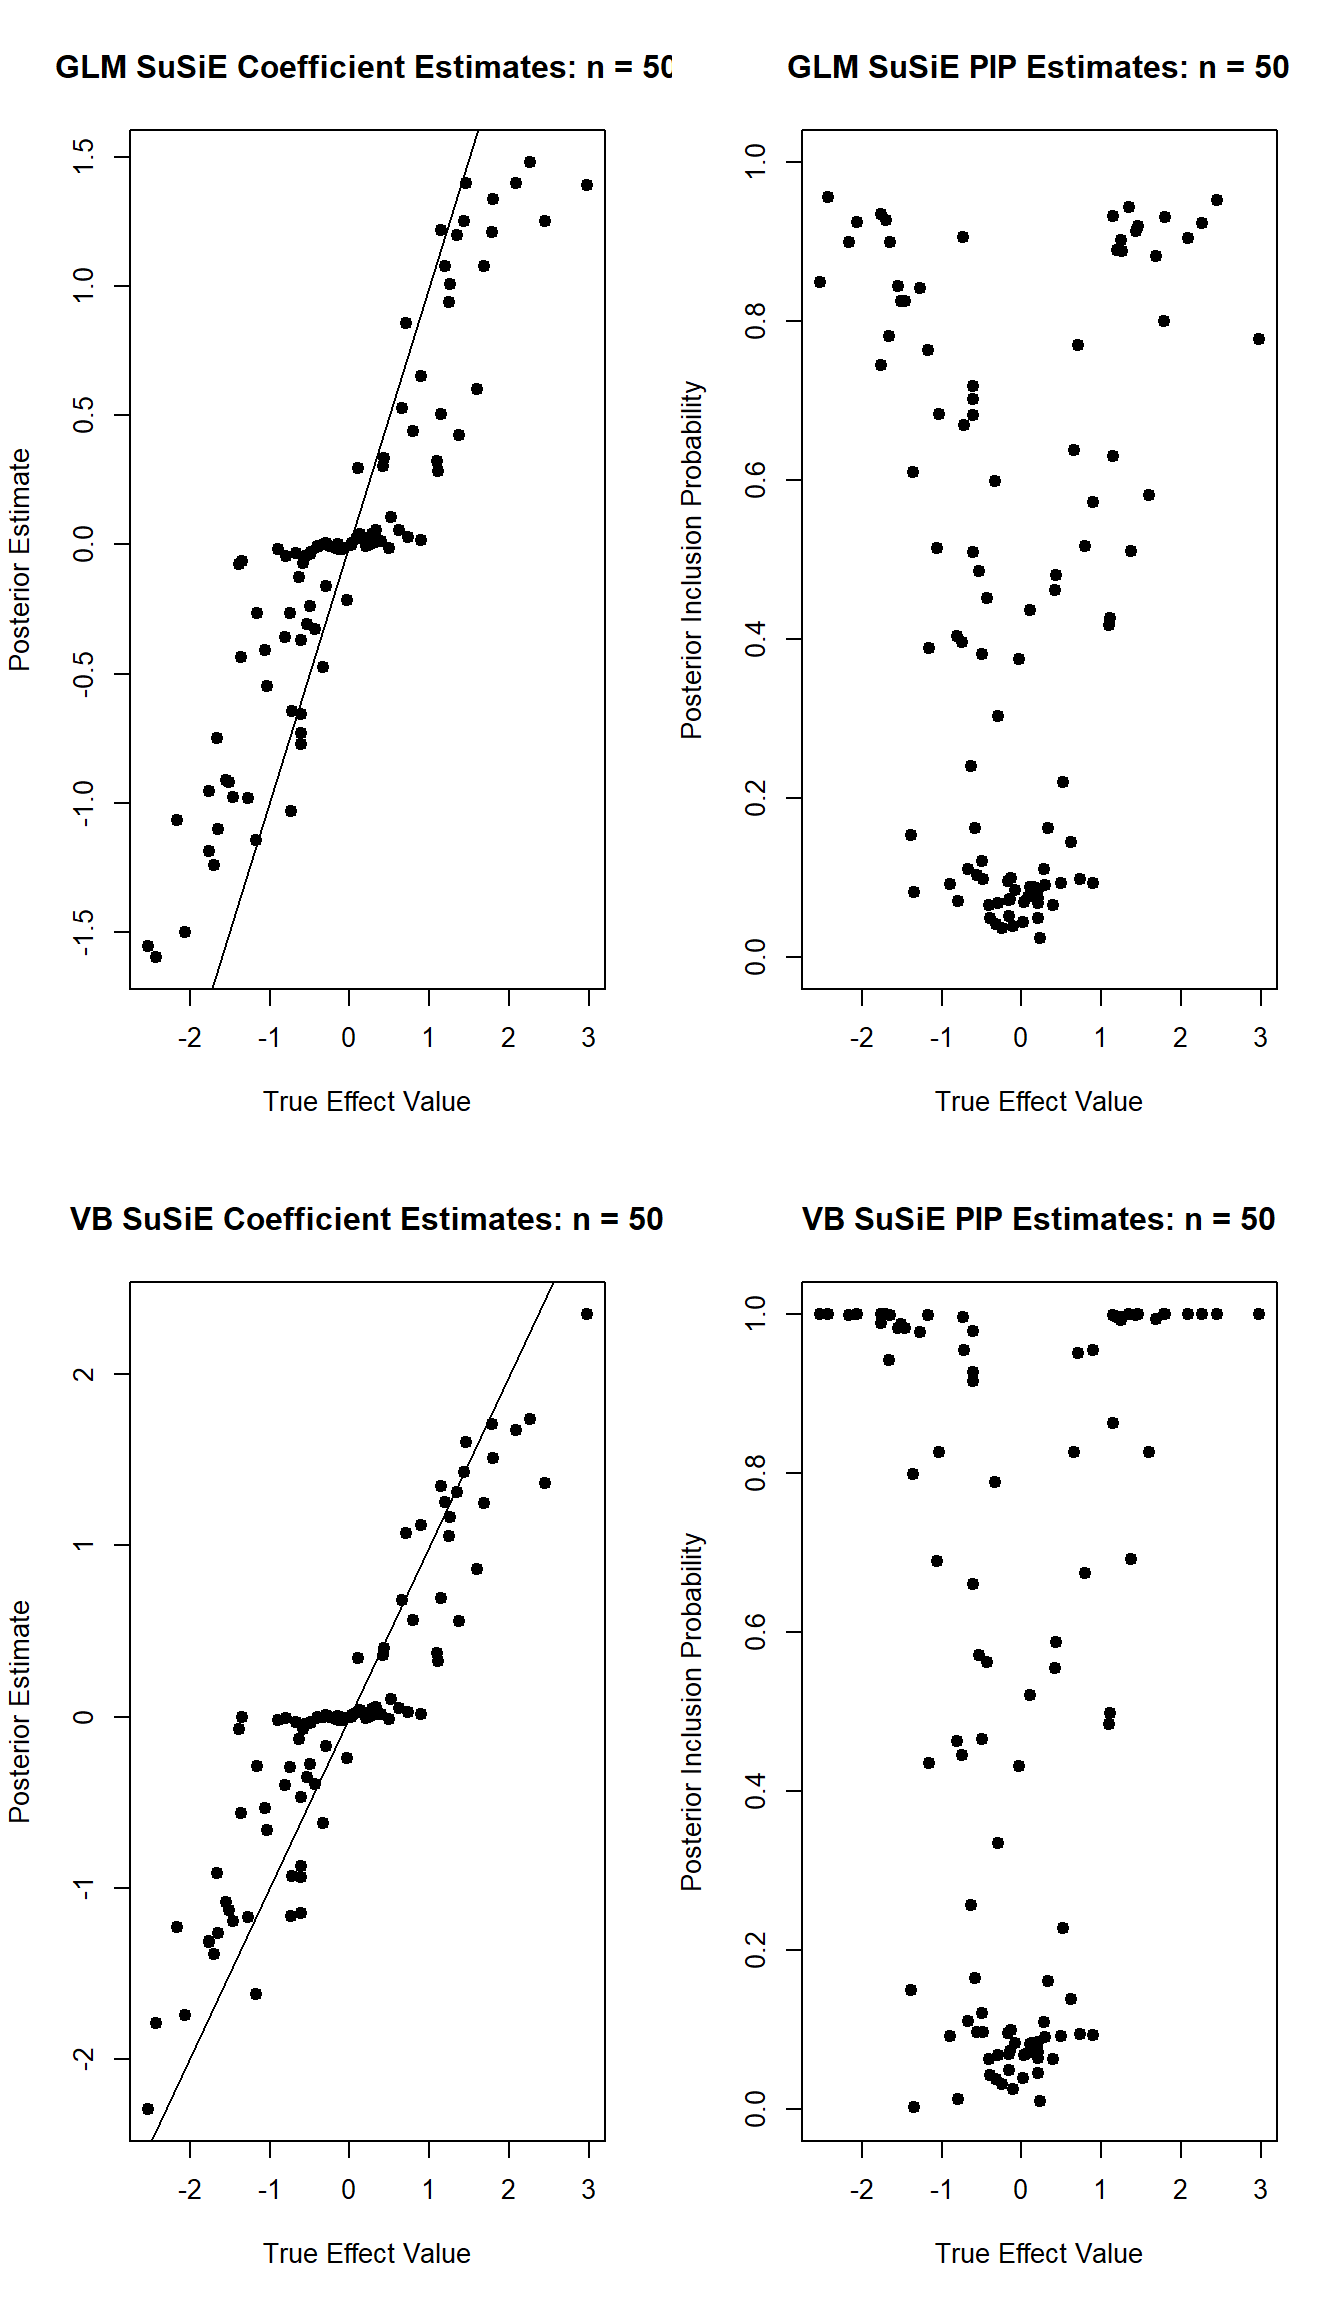
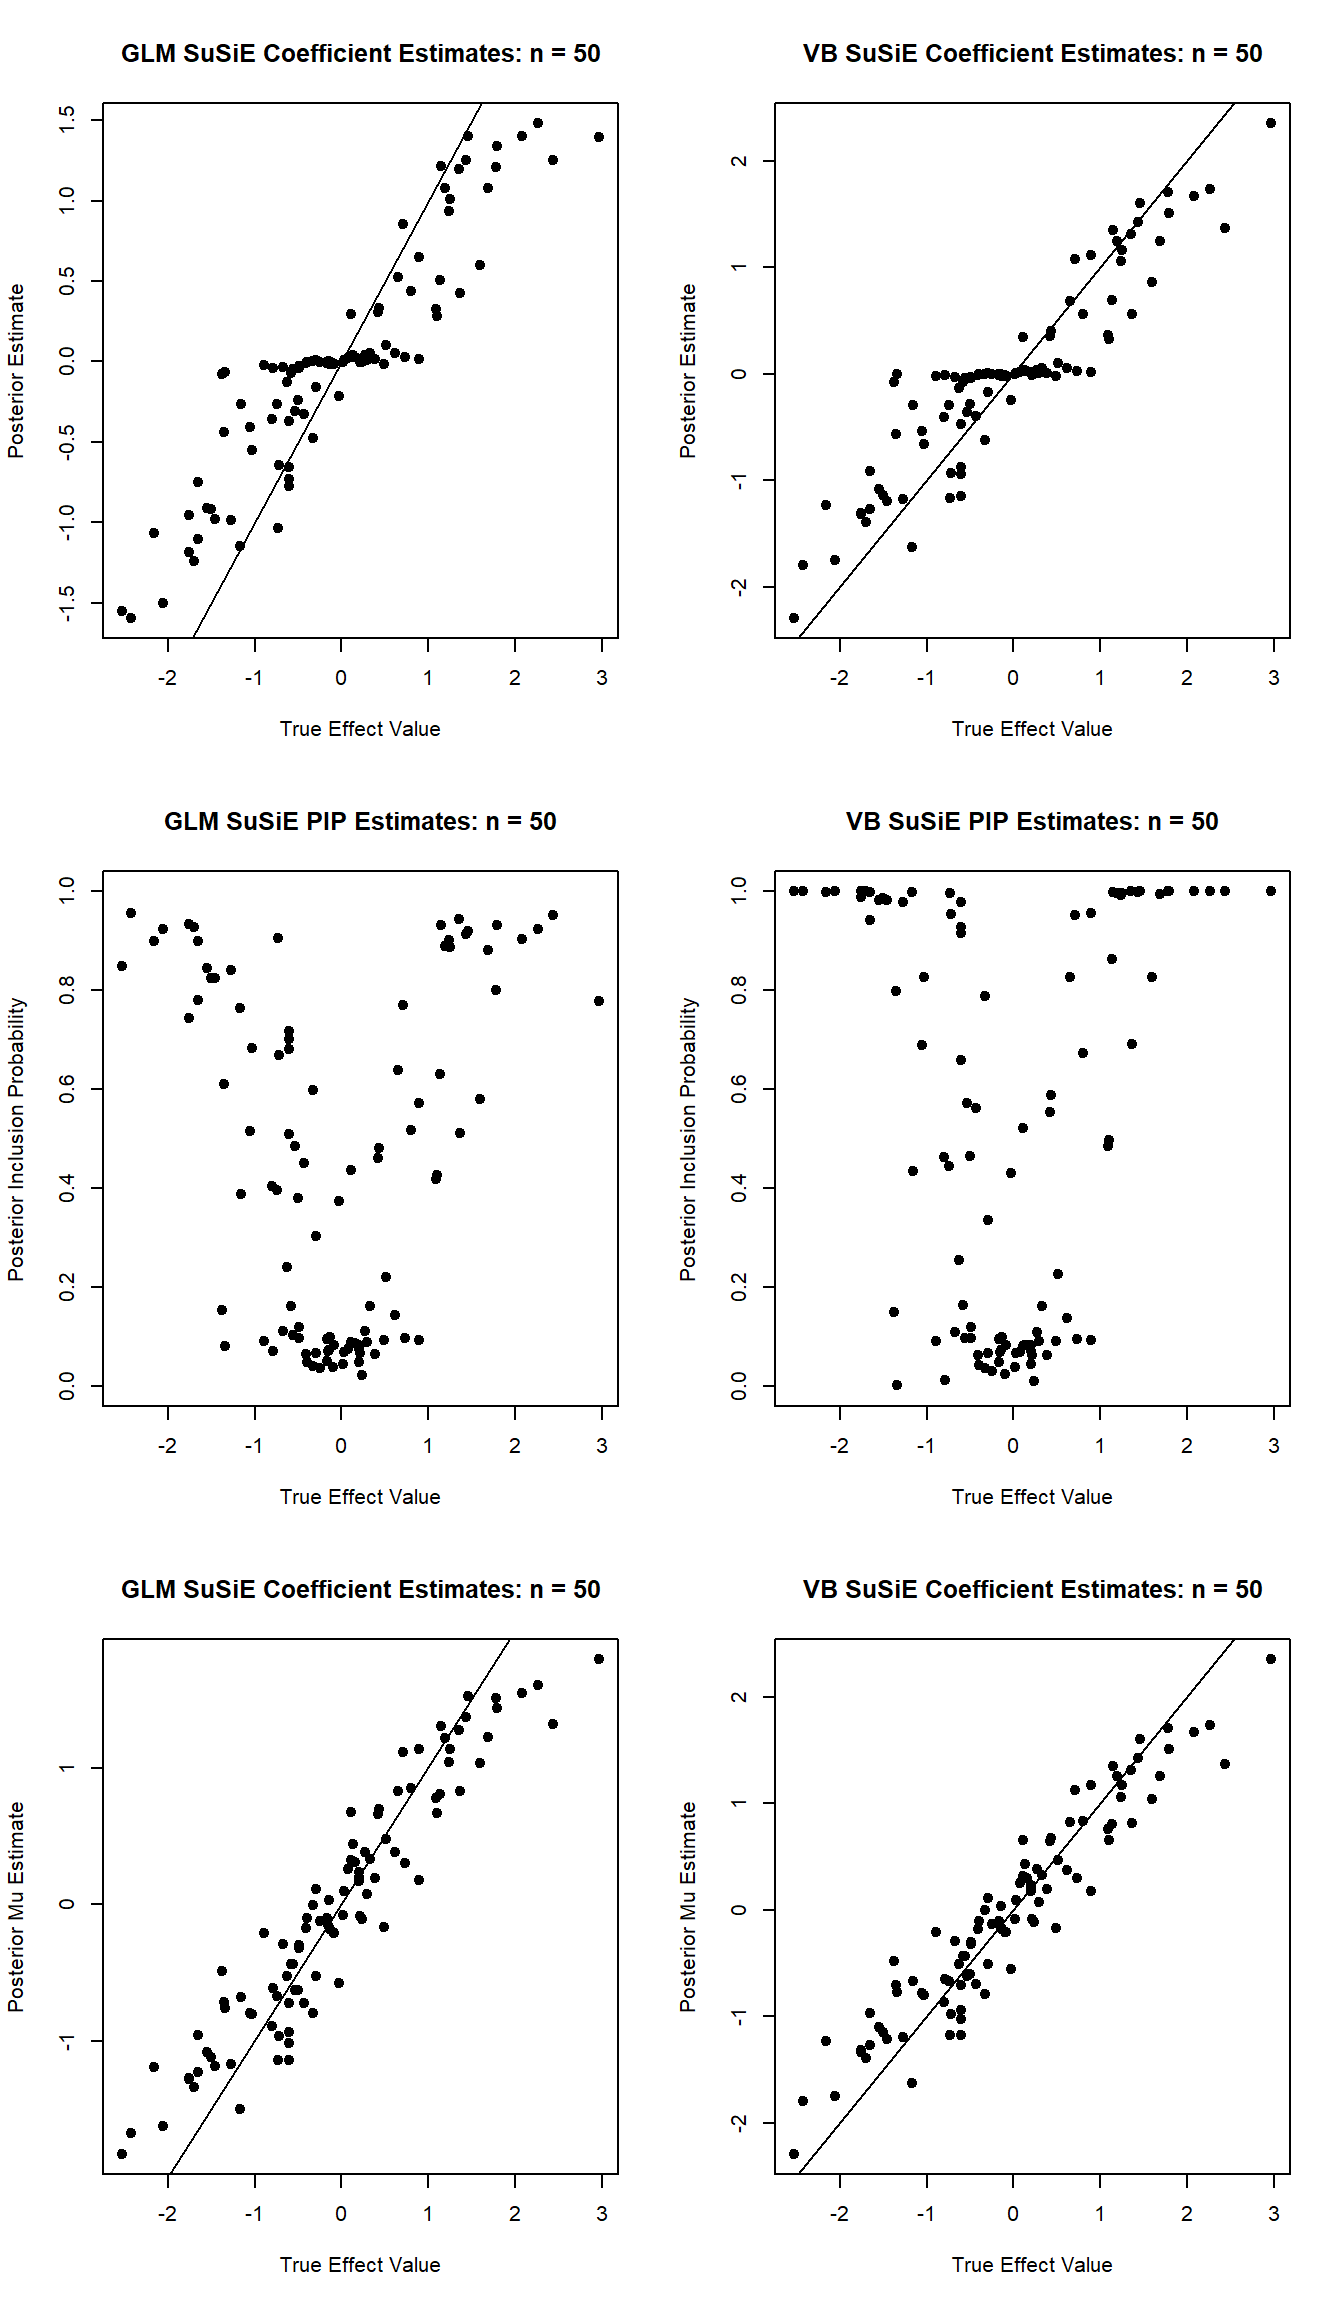
Build site.

diff --git a/docs/VB_susie_logistic_demonstration.html b/docs/VB_susie_logistic_demonstration.html
@@ -12,7 +12,7 @@
 <meta name="author" content="Andrew Goldstein" />
 
 
-<title>susieR Logistic Regression GLM</title>
+<title>susieR Logistic Regression VB</title>
 
 <script src="site_libs/jquery-1.11.3/jquery.min.js"></script>
 <meta name="viewport" content="width=device-width, initial-scale=1" />
@@ -338,9 +338,9 @@ div.section {
 
 
 
-<h1 class="title toc-ignore">susieR Logistic Regression GLM</h1>
+<h1 class="title toc-ignore">susieR Logistic Regression VB</h1>
 <h4 class="author"><em>Andrew Goldstein</em></h4>
-<h4 class="date"><em>May 6, 2019</em></h4>
+<h4 class="date"><em>May 8, 2019</em></h4>
 
 </div>
 
@@ -369,7 +369,7 @@ div.section {
 </details>
 </li>
 <li>
-<p><details> <summary> <strong style="color:blue;">✔</strong> <strong>Repository version:</strong> <a href="https://github.com/andrewg3311/susieR_logistic_wflow/tree/5e270b116374e947dcba4206cf3c98690d604dec" target="_blank">5e270b1</a> </summary></p>
+<p><details> <summary> <strong style="color:blue;">✔</strong> <strong>Repository version:</strong> <a href="https://github.com/andrewg3311/susieR_logistic_wflow/tree/6fb18fab01f6032e8064bb287ebdd9bc7b02459e" target="_blank">6fb18fa</a> </summary></p>
 Great! You are using Git for version control. Tracking code development and connecting the code version to the results is critical for reproducibility. The version displayed above was the version of the Git repository at the time these results were generated. <br><br> Note that you need to be careful to ensure that all relevant files for the analysis have been committed to Git prior to generating the results (you can use <code>wflow_publish</code> or <code>wflow_git_commit</code>). workflowr only checks the R Markdown file, but you know if there are other scripts or data files that it depends on. Below is the status of the Git repository when the results were generated:
 <pre><code>
 Ignored files:
@@ -405,6 +405,40 @@ Message
 </tr>
 </thead>
 <tbody>
+<tr>
+<td style="text-align:left;">
+Rmd
+</td>
+<td style="text-align:left;">
+<a href="https://github.com/andrewg3311/susieR_logistic_wflow/blob/6fb18fab01f6032e8064bb287ebdd9bc7b02459e/analysis/VB_susie_logistic_demonstration.Rmd" target="_blank">6fb18fa</a>
+</td>
+<td style="text-align:left;">
+Andrew Goldstein
+</td>
+<td style="text-align:left;">
+2019-05-08
+</td>
+<td style="text-align:left;">
+Minor formatting changes, and adding plot to comparison L=1
+</td>
+</tr>
+<tr>
+<td style="text-align:left;">
+html
+</td>
+<td style="text-align:left;">
+<a href="https://cdn.rawgit.com/andrewg3311/susieR_logistic_wflow/68bcd880028c037b3359b879ded235ee9c6ff6b5/docs/VB_susie_logistic_demonstration.html" target="_blank">68bcd88</a>
+</td>
+<td style="text-align:left;">
+Andrew Goldstein
+</td>
+<td style="text-align:left;">
+2019-05-08
+</td>
+<td style="text-align:left;">
+Build site.
+</td>
+</tr>
 <tr>
 <td style="text-align:left;">
 Rmd
@@ -829,7 +863,7 @@ Q_i := \mathbb{E}_{b \sim Q}[(x_i^T\mathbf{b})^2] = \mathbb{E}_{b_1 \sim q_1, \d
 \end{aligned}
 \]</span> Where <span class="math inline">\(\alpha_{jl}, \sigma_{jl}^2, \mu_{jl}\)</span> are the posterior inclusion probability for entry <span class="math inline">\(j\)</span> in <span class="math inline">\(b_l\)</span>, the posterior variance of that entry when selected, and the posterior mean of that entry when selected, selectively.</p>
 <p>According to Wolfram Alpha, by taking the derivative of the objective w.r.t. <span class="math inline">\(\xi_i\)</span>, we get a derivative of <span class="math display">\[
-\frac{(-2e^{\xi_i} \xi_i + e^{2\xi_i} - 1) \cdot (\xi_i^2 - Q)} {4(e^{\xi_i} + 1)^2 \xi_i^2} := 0 \iff \xi_i^2 = \pm Q \Rightarrow \xi_i := +\sqrt{Q}
+\frac{(-2e^{\xi_i} \xi_i + e^{2\xi_i} - 1) \cdot (\xi_i^2 - Q_i)} {4(e^{\xi_i} + 1)^2 \xi_i^2} := 0 \iff \xi_i^2 = \pm Q_i \Rightarrow \xi_i := +\sqrt{Q_i}
 \]</span> As an interpretation, <span class="math inline">\(\xi_i^2\)</span> is the second moment of the linear predictor <span class="math inline">\(x_i^T \mathbf{b}\)</span> under the current estimates for <span class="math inline">\(q_l\)</span>.</p>
 <p>With these updates derived, we can now implement the algorithm.</p>
 <div id="a-note-on-the-intercept" class="section level3">
@@ -840,7 +874,7 @@ Q_i := \mathbb{E}_{b \sim Q}[(x_i^T\mathbf{b})^2] = \mathbb{E}_{b_1 \sim q_1, \d
 </div>
 <div id="algebraic-comparison-between-vb-and-glm-algorithms" class="section level2">
 <h2>Algebraic Comparison between VB and GLM Algorithms</h2>
-<p>In that follows, I will refer to the new VB approach as the <em>VB Algorithm</em>, and the original iterative GLM approach as the <em>GLM Algorithm</em>.</p>
+<p>In that follows, I will refer to the new VB approach as the <strong>VB Algorithm</strong>, and the original iterative GLM approach as the <strong>GLM Algorithm</strong>.</p>
 <p>The form of the updates in both algorithms are very similar. This is not surprising, since in both cases the posterior distribution takes the same form: a multinoulli draw for the non-zero element of <span class="math inline">\(b_l\)</span>, and then a normal draw for the corresponding effect size.</p>
 <p>In the SER step of the GLM algorithm, we obtain MLE estimates for <span class="math inline">\(\hat{b_j}\)</span> and its SE <span class="math inline">\(\sigma_{MLE_j}\)</span>. We then compute the posterior mean and variance of the normal distribution: <span class="math display">\[
 \begin{aligned}
@@ -917,6 +951,17 @@ Date
 </tr>
 </thead>
 <tbody>
+<tr>
+<td style="text-align:left;">
+<a href="https://github.com/andrewg3311/susieR_logistic_wflow/blob/68bcd880028c037b3359b879ded235ee9c6ff6b5/docs/figure/VB_susie_logistic_demonstration.Rmd/unnamed-chunk-1-1.png" target="_blank">68bcd88</a>
+</td>
+<td style="text-align:left;">
+Andrew Goldstein
+</td>
+<td style="text-align:left;">
+2019-05-08
+</td>
+</tr>
 <tr>
 <td style="text-align:left;">
 <a href="https://github.com/andrewg3311/susieR_logistic_wflow/blob/6fbb126884cd980a6cecec0d2fa929595ce840eb/docs/figure/VB_susie_logistic_demonstration.Rmd/unnamed-chunk-1-1.png" target="_blank">6fbb126</a>
@@ -1097,7 +1142,7 @@ susie_logistic_VB = function(Y, X, L = 10, V = 1, prior_weights = NULL, tol = 1e
   return(res)
   
 }</code></pre>
-<p>I also include the code for the original iterative logistic SuSiE method below in order to compare the two methods. <em>(NOTE: I will clean this up later by adding the code to the “Code” folder in the workflowR folder)</em></p>
+<p>I also include the code for the original iterative logistic SuSiE method below in order to compare the two methods. <strong>(NOTE: I will clean this up later by adding the code to the “Code” folder in the workflowR folder)</strong></p>
 <pre class="r"><code>susie_logistic = function(Y, X, L = 10, V = 1, prior_weights = NULL, tol = 1e-3, maxit = 1000, intercept = TRUE) {
   
   p = ncol(X)
@@ -2428,8 +2473,8 @@ Andrew Goldstein
 </div>
 <div id="comparison-between-the-vb-algorithm-and-the-original-iterative-glm-modification-of-regular-susie" class="section level2">
 <h2>Comparison Between the VB Algorithm and the Original Iterative GLM Modification of Regular SuSiE</h2>
-<p>In that follows, I will refer to the new VB approach as the <em>VB Algorithm</em>, and the original iterative GLM approach as the <em>GLM Algorithm</em>.</p>
-<p><em>NOTE: I have so far been unable to find many meaningful differences between the two algorithms</em></p>
+<p>In that follows, I will refer to the new VB approach as the <strong>VB Algorithm</strong>, and the original iterative GLM approach as the <strong>GLM Algorithm</strong>.</p>
+<p><strong>NOTE: I have so far been unable to find many meaningful differences between the two algorithms</strong></p>
 <div id="convergence" class="section level3">
 <h3>Convergence</h3>
 <p>First, before diving into any simulation examples, recall that for the GLM algorithm, I encountered situations where the algorithm didn’t converge (e.g. cycling behavior). To remedy this, I modified the convergence criteria to also take into account the estimated means from 2 iterations prior (not just the previous iteration). In the VB algorithm, since it is a hill climbing algorithm, we should not encounter scenarios where the algorithm fails to converge.</p>
@@ -2460,16 +2505,22 @@ for (i in 1:B) {
   susie.fits.easy.VB[[i]] = susie_logistic_VB(Y, X, L, V)
 }
 
-par(mfrow = c(2, 2))
+par(mfcol = c(3, 2))
 plot(sapply(susie.fits.easy, function(x) x$post_alpha[1] * x$post_mu[1]) ~ b_1s, xlab = &quot;True Effect Value&quot;, ylab = &quot;Posterior Estimate&quot;, main = &quot;GLM SuSiE Coefficient Estimates: n = 100&quot;, pch = 19)
 abline(0, 1)
 
 plot(sapply(susie.fits.easy, function(x) x$post_alpha[1]) ~ b_1s, xlab = &quot;True Effect Value&quot;, ylab = &quot;Posterior Inclusion Probability&quot;, main = &quot;GLM SuSiE PIP Estimates: n = 100&quot;, pch = 19, ylim = c(0, 1))
 
+plot(sapply(susie.fits.easy, function(x) x$post_mu[1]) ~ b_1s, xlab = &quot;True Effect Value&quot;, ylab = &quot;Posterior Mu Estimate&quot;, main = &quot;GLM SuSiE Coefficient Estimates: n = 100&quot;, pch = 19)
+abline(0, 1)
+
 plot(sapply(susie.fits.easy.VB, function(x) x$post_alpha[1] * x$post_mu[1]) ~ b_1s, xlab = &quot;True Effect Value&quot;, ylab = &quot;Posterior Estimate&quot;, main = &quot;VB SuSiE Coefficient Estimates: n = 100&quot;, pch = 19)
 abline(0, 1)
 
-plot(sapply(susie.fits.easy.VB, function(x) x$post_alpha[1]) ~ b_1s, xlab = &quot;True Effect Value&quot;, ylab = &quot;Posterior Inclusion Probability&quot;, main = &quot;VB SuSiE PIP Estimates: n = 100&quot;, pch = 19, ylim = c(0, 1))</code></pre>
+plot(sapply(susie.fits.easy.VB, function(x) x$post_alpha[1]) ~ b_1s, xlab = &quot;True Effect Value&quot;, ylab = &quot;Posterior Inclusion Probability&quot;, main = &quot;VB SuSiE PIP Estimates: n = 100&quot;, pch = 19, ylim = c(0, 1))
+
+plot(sapply(susie.fits.easy.VB, function(x) x$post_mu[1]) ~ b_1s, xlab = &quot;True Effect Value&quot;, ylab = &quot;Posterior Mu Estimate&quot;, main = &quot;VB SuSiE Coefficient Estimates: n = 100&quot;, pch = 19)
+abline(0, 1)</code></pre>
 <p><img src="figure/VB_susie_logistic_demonstration.Rmd/unnamed-chunk-19-1.png" width="672" style="display: block; margin: auto;" /></p>
 <details> <summary><em>Expand here to see past versions of unnamed-chunk-19-1.png:</em></summary>
 <table style="border-collapse:separate; border-spacing:5px;">
@@ -2534,7 +2585,7 @@ Andrew Goldstein
 </tbody>
 </table>
 <p></details></p>
-<pre class="r"><code>par(mfrow = c(1, 1))</code></pre>
+<pre class="r"><code>par(mfcol = c(1, 1))</code></pre>
 <p>Qualitatively, these two methods appear nearly identical in this example. The only difference I see is in the PIPs for true effects around -1 to -1.25. The GLM method has two PIPs around 0.9, whereas almost all PIPs for the VB method are around 1.</p>
 <p>To make things slightly harder, I perform the experiment again, except I not set <span class="math inline">\(n = 50\)</span> (so the effect should be harder to identify).</p>
 <pre class="r"><code>set.seed(1138)
@@ -2560,16 +2611,22 @@ for (i in 1:B) {
   susie.fits.easy.VB[[i]] = susie_logistic_VB(Y, X, L, V)
 }
 
-par(mfrow = c(2, 2))
+par(mfcol = c(3, 2))
 plot(sapply(susie.fits.easy, function(x) x$post_alpha[1] * x$post_mu[1]) ~ b_1s, xlab = &quot;True Effect Value&quot;, ylab = &quot;Posterior Estimate&quot;, main = &quot;GLM SuSiE Coefficient Estimates: n = 50&quot;, pch = 19)
 abline(0, 1)
 
 plot(sapply(susie.fits.easy, function(x) x$post_alpha[1]) ~ b_1s, xlab = &quot;True Effect Value&quot;, ylab = &quot;Posterior Inclusion Probability&quot;, main = &quot;GLM SuSiE PIP Estimates: n = 50&quot;, pch = 19, ylim = c(0, 1))
 
+plot(sapply(susie.fits.easy, function(x) x$post_mu[1]) ~ b_1s, xlab = &quot;True Effect Value&quot;, ylab = &quot;Posterior Mu Estimate&quot;, main = &quot;GLM SuSiE Coefficient Estimates: n = 50&quot;, pch = 19)
+abline(0, 1)
+
 plot(sapply(susie.fits.easy.VB, function(x) x$post_alpha[1] * x$post_mu[1]) ~ b_1s, xlab = &quot;True Effect Value&quot;, ylab = &quot;Posterior Estimate&quot;, main = &quot;VB SuSiE Coefficient Estimates: n = 50&quot;, pch = 19)
 abline(0, 1)
 
-plot(sapply(susie.fits.easy.VB, function(x) x$post_alpha[1]) ~ b_1s, xlab = &quot;True Effect Value&quot;, ylab = &quot;Posterior Inclusion Probability&quot;, main = &quot;VB SuSiE PIP Estimates: n = 50&quot;, pch = 19, ylim = c(0, 1))</code></pre>
+plot(sapply(susie.fits.easy.VB, function(x) x$post_alpha[1]) ~ b_1s, xlab = &quot;True Effect Value&quot;, ylab = &quot;Posterior Inclusion Probability&quot;, main = &quot;VB SuSiE PIP Estimates: n = 50&quot;, pch = 19, ylim = c(0, 1))
+
+plot(sapply(susie.fits.easy.VB, function(x) x$post_mu[1]) ~ b_1s, xlab = &quot;True Effect Value&quot;, ylab = &quot;Posterior Mu Estimate&quot;, main = &quot;VB SuSiE Coefficient Estimates: n = 50&quot;, pch = 19)
+abline(0, 1)</code></pre>
 <p><img src="figure/VB_susie_logistic_demonstration.Rmd/unnamed-chunk-20-1.png" width="672" style="display: block; margin: auto;" /></p>
 <details> <summary><em>Expand here to see past versions of unnamed-chunk-20-1.png:</em></summary>
 <table style="border-collapse:separate; border-spacing:5px;">
@@ -2623,7 +2680,7 @@ Andrew Goldstein
 </tbody>
 </table>
 <p></details></p>
-<pre class="r"><code>par(mfrow = c(1, 1))</code></pre>
+<pre class="r"><code>par(mfcol = c(1, 1))</code></pre>
 <p>The differences here are more apparent. First, the GLM coefficient estimates for large true effects are biased towards 0 far more than the VB estimates. The driving factor is likely the PIPs, where the GLM version has a hard time; even for large effects, the PIPs are still only at aroung 0.9 at best. In contrast, the VB method returns PIPs of 1 for large enough effects.</p>
 </div>
 <div id="hard-comparison" class="section level3">
@@ -2778,8 +2835,8 @@ Andrew Goldstein
 </div>
 <div id="computation-time-comparison" class="section level3">
 <h3>Computation Time Comparison</h3>
-<p>In the previous example, the GLM algorithm took 1.03 seconds to converge and the VB algorithm took 0.05 seconds to converge (both with the same convergence tolerance). The VB method appears to be much faster. This is not surprising, since the GLM algorithm makes many calls the R’s built-in <code>glm</code> function, which requires us to run an optimization algorithm. For the VB method, since we are essentially finding an analytical solution of an approximation to the same problem, the algorithm runs much faster.</p>
-<p><em>HOWEVER, I have found that in most cases, their runtimes are virtually the same</em></p>
+<p>In the previous example, the GLM algorithm took 0.99 seconds to converge and the VB algorithm took 0.04 seconds to converge (both with the same convergence tolerance). The VB method appears to be much faster. This is not surprising, since the GLM algorithm makes many calls the R’s built-in <code>glm</code> function, which requires us to run an optimization algorithm. For the VB method, since we are essentially finding an analytical solution of an approximation to the same problem, the algorithm runs much faster.</p>
+<p><strong>HOWEVER, I have found that in most cases, their runtimes are virtually the same</strong></p>
 </div>
 </div>
 <div id="session-information" class="section level2">
